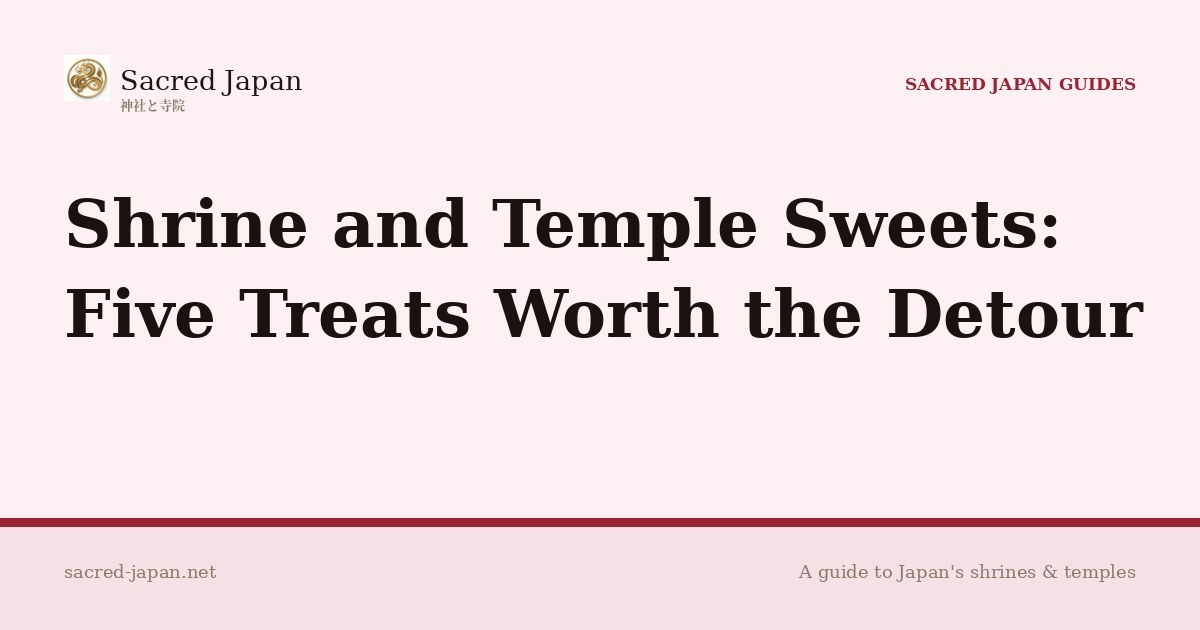
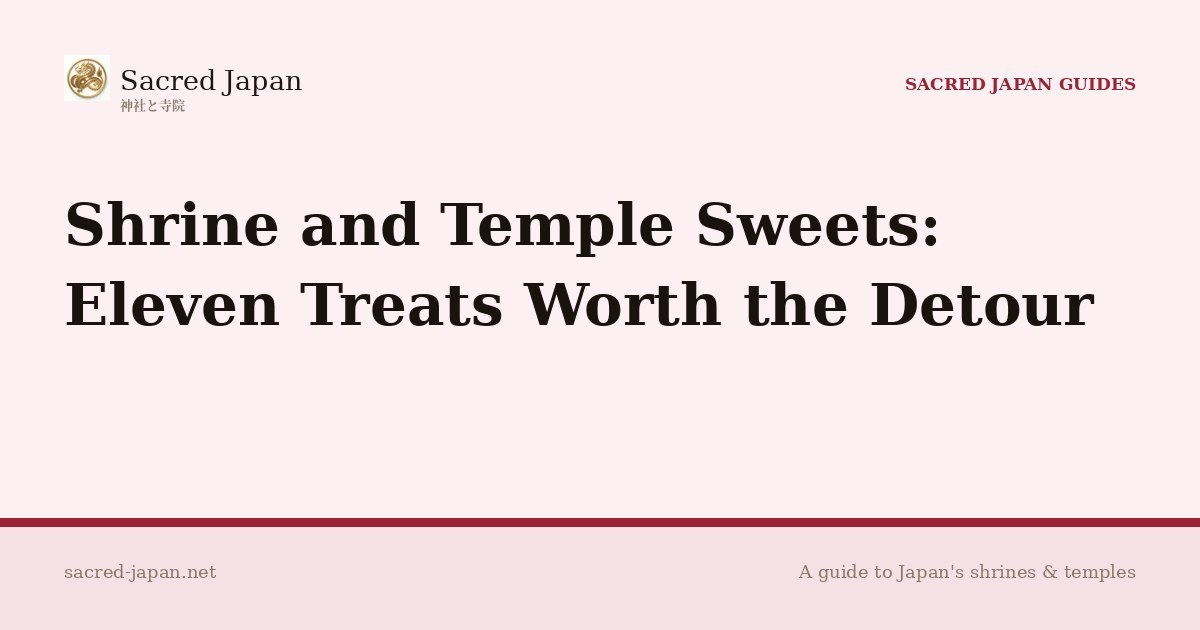
Expand sweets guide to 11 treats (mitarashi, kiyome mochi, Izumo zenzai, itokiri, tengu-yaki, Hato Sable) with credited photos
Claude-Session: https://claude.ai/code/session_01EpyvmJaAWoN52Wmz9c73wc

Changed region(s): [[0.0617, 0.4524, 0.9558, 0.5429], [0.0617, 0.3016, 0.8942, 0.4222]]

diff --git a/guides/shrine-temple-sweets/index.html b/guides/shrine-temple-sweets/index.html
@@ -5,9 +5,9 @@
 <meta name="viewport" content="width=device-width, initial-scale=1.0">
 
 <!-- ── PRIMARY SEO ── -->
-<title>Japanese Shrine &amp; Temple Sweets: 5 Treats Worth the Detour | Sacred Japan</title>
-<meta name="description" content="Five sweets sold at the gates of Japan's shrines and temples, from Dazaifu's umegae mochi to Miyajima's momiji manju, with the stories behind them and tips from a licensed guide.">
-<meta name="keywords" content="Japanese temple sweets, shrine sweets Japan, umegae mochi, Dazaifu Tenmangu, aburimochi, Imamiya Shrine, Akafuku, Ise, momiji manju, Miyajima, yatsuhashi, Kyoto, monzen sweets, wagashi">
+<title>Japanese Shrine &amp; Temple Sweets: 11 Treats Worth the Detour | Sacred Japan</title>
+<meta name="description" content="Eleven sweets sold at the gates of Japan's shrines and temples, from Dazaifu's umegae mochi to Kyoto's mitarashi dango, with the stories behind them and tips from a licensed guide.">
+<meta name="keywords" content="Japanese temple sweets, shrine sweets Japan, umegae mochi, Dazaifu Tenmangu, mitarashi dango, Shimogamo, kiyome mochi, Atsuta, Izumo zenzai, hato sable, tengu-yaki, aburimochi, Imamiya Shrine, Akafuku, Ise, momiji manju, Miyajima, yatsuhashi, Kyoto, monzen sweets, wagashi">
 <meta name="author" content="Sacred Japan">
 <link rel="canonical" href="https://sacred-japan.net/guides/shrine-temple-sweets/">
 <link rel="alternate" hreflang="en" href="https://sacred-japan.net/guides/shrine-temple-sweets/">
@@ -16,8 +16,8 @@
 <!-- ── OPEN GRAPH ── -->
 <meta property="og:type" content="article">
 <meta property="og:url" content="https://sacred-japan.net/guides/shrine-temple-sweets/">
-<meta property="og:title" content="Japanese Shrine &amp; Temple Sweets: 5 Treats Worth the Detour">
-<meta property="og:description" content="Five sweets sold at the gates of Japan's shrines and temples, from Dazaifu's umegae mochi to Miyajima's momiji manju, with the stories behind them and tips from a licensed guide.">
+<meta property="og:title" content="Japanese Shrine &amp; Temple Sweets: 11 Treats Worth the Detour">
+<meta property="og:description" content="Eleven sweets sold at the gates of Japan's shrines and temples, from Dazaifu's umegae mochi to Kyoto's mitarashi dango, with the stories behind them and tips from a licensed guide.">
 <meta property="og:image" content="https://sacred-japan.net/images/og/og-guides-shrine-temple-sweets.jpg">
 <meta property="og:image:width" content="1200">
 <meta property="og:image:height" content="630">
@@ -27,8 +27,8 @@
 <!-- ── TWITTER CARD ── -->
 <meta name="twitter:card" content="summary_large_image">
 <meta name="twitter:site" content="@sacredjapan">
-<meta name="twitter:title" content="Japanese Shrine &amp; Temple Sweets: 5 Treats Worth the Detour">
-<meta name="twitter:description" content="Five sweets sold at the gates of Japan's shrines and temples, from Dazaifu's umegae mochi to Miyajima's momiji manju, with the stories behind them and tips from a licensed guide.">
+<meta name="twitter:title" content="Japanese Shrine &amp; Temple Sweets: 11 Treats Worth the Detour">
+<meta name="twitter:description" content="Eleven sweets sold at the gates of Japan's shrines and temples, from Dazaifu's umegae mochi to Kyoto's mitarashi dango, with the stories behind them and tips from a licensed guide.">
 <meta name="twitter:image" content="https://sacred-japan.net/images/og/og-guides-shrine-temple-sweets.jpg">
 
 <!-- ── STRUCTURED DATA: Article ── -->
@@ -36,8 +36,8 @@
 {
   "@context": "https://schema.org",
   "@type": "Article",
-  "headline": "Japanese Shrine & Temple Sweets: 5 Treats Worth the Detour",
-  "description": "Five sweets sold at the gates of Japan's shrines and temples, from Dazaifu's umegae mochi to Miyajima's momiji manju, with the stories behind them and tips from a licensed guide.",
+  "headline": "Japanese Shrine & Temple Sweets: 11 Treats Worth the Detour",
+  "description": "Eleven sweets sold at the gates of Japan's shrines and temples, from Dazaifu's umegae mochi to Kyoto's mitarashi dango, with the stories behind them and tips from a licensed guide.",
   "url": "https://sacred-japan.net/guides/shrine-temple-sweets/",
   "mainEntityOfPage": "https://sacred-japan.net/guides/shrine-temple-sweets/",
   "image": "https://sacred-japan.net/images/og/og-guides-shrine-temple-sweets.jpg",
@@ -947,9 +947,9 @@ article ul li, article ol li { font-size: 19px; }
   <div class="hero-bg-kanji">甘味</div>
   <div class="hero-content">
     <div class="hero-label">SACRED JAPAN GUIDES ／ 門前菓子</div>
-    <h1>Shrine and Temple <em>Sweets</em>: Five Treats Worth the Detour</h1>
+    <h1>Shrine and Temple <em>Sweets</em>: Eleven Treats Worth the Detour</h1>
     <div class="hero-jp">神社・お寺の門前スイーツ</div>
-    <p class="hero-subtitle">Walk up to almost any famous shrine or temple in Japan and the last stretch of the approach smells of grilled rice cake and sweet bean paste. Here are five I would walk a long way for.</p>
+    <p class="hero-subtitle">Walk up to almost any famous shrine or temple in Japan and the last stretch of the approach smells of grilled rice cake and sweet bean paste. Here are eleven I would walk a long way for.</p>
     <div class="hero-author">
       WRITTEN BY <strong>SACRED JAPAN</strong> ／ LICENSED NATIONAL TOUR GUIDE (ENGLISH)
     </div>
@@ -985,6 +985,12 @@ article ul li, article ol li { font-size: 19px; }
       <li><a href="#akafuku">Akafuku at Ise</a></li>
       <li><a href="#momiji">Momiji Manju on Miyajima</a></li>
       <li><a href="#yatsuhashi">Yatsuhashi in Kyoto</a></li>
+      <li><a href="#mitarashi">Mitarashi Dango at Shimogamo Shrine</a></li>
+      <li><a href="#kiyome">Kiyome Mochi at Atsuta Shrine</a></li>
+      <li><a href="#zenzai">Izumo Zenzai at Izumo Taisha</a></li>
+      <li><a href="#itokiri">Itokiri Mochi at Taga Taisha</a></li>
+      <li><a href="#tengu">Tengu-yaki on Mount Takao</a></li>
+      <li><a href="#hato">Hato Sabl&eacute; in Kamakura</a></li>
       <li><a href="#tips">How to Enjoy Them</a></li>
       <li><a href="#faq">Frequently Asked Questions</a></li>
       <li><a href="#final">The Sweet Last Step</a></li>
@@ -995,7 +1001,7 @@ article ul li, article ol li { font-size: 19px; }
 
     <section id="opening">
       <p class="opening">As a licensed guide, I always tell visitors to arrive hungry. In Japan the approach to a famous shrine or temple is called the <em>monzen</em>, the area in front of the gate, and for centuries it has been lined with teahouses selling something sweet to pilgrims who had just walked a long way. Many of these shops are older than the buildings you came to see.</p>
-      <p>The reason is practical and a little spiritual. A pilgrim on foot needed sugar and rest, and a sweet taken after prayer was a way to share the blessing. Today the habit survives, and the sweets are easy to like: soft rice cake, sweet bean paste, a bowl of green tea. I have picked five that each belong to a particular place and have a story you can taste. Prices and opening days change, so I have left them out and suggest you check each shop or shrine before you go.</p>
+      <p>The reason is practical and a little spiritual. A pilgrim on foot needed sugar and rest, and a sweet taken after prayer was a way to share the blessing. Today the habit survives, and the sweets are easy to like: soft rice cake, sweet bean paste, a bowl of green tea. I have picked eleven that each belong to a particular place and have a story you can taste. Prices and opening days change, so I have left them out and suggest you check each shop or shrine before you go.</p>
     </section>
 
     <h2 id="umegae">Umegae Mochi at Dazaifu Tenmangu<span class="h2-jp">梅ヶ枝餅（太宰府天満宮）</span></h2>
@@ -1057,7 +1063,7 @@ article ul li, article ol li { font-size: 19px; }
     </div>
 
     <figure style="margin:32px auto;max-width:560px;">
-      <picture><source srcset="/images/ise-uji-bridge.webp" type="image/webp"><img src="/images/ise-uji-bridge.jpg" alt="The Uji Bridge over the Isuzu River at Ise Jingu" width="1050" height="787" loading="lazy" style="width:100%;height:auto;border-radius:6px;"></picture>
+      <picture><source srcset="/images/ise-uji-bridge.webp" type="image/webp"><img src="/images/ise-uji-bridge.jpg" alt="The Uji Bridge over the Isuzu River at Ise Jingu" width="1200" height="800" loading="lazy" style="width:100%;height:auto;border-radius:6px;"></picture>
       <figcaption style="font-size:13px;color:var(--enshu);margin-top:10px;text-align:center;line-height:1.6;">The Uji Bridge over the Isuzu River at Ise.<br>Photo: Yanajin33, <a href="https://creativecommons.org/licenses/by-sa/3.0/" target="_blank" rel="noopener noreferrer" style="color:var(--enshu);">CC BY-SA 3.0</a>, via Wikimedia Commons (resized)</figcaption>
     </figure>
 
@@ -1096,6 +1102,100 @@ article ul li, article ol li { font-size: 19px; }
     <figure style="margin:32px auto;max-width:480px;">
       <picture><source srcset="/images/sweets-yatsuhashi.webp" type="image/webp"><img src="/images/sweets-yatsuhashi.jpg" alt="Two triangular nama yatsuhashi, one pink and one with a brown cinnamon wrapper, on a blue and white plate" width="1200" height="900" loading="lazy" style="width:100%;height:auto;border-radius:6px;"></picture>
       <figcaption style="font-size:13px;color:var(--enshu);margin-top:10px;text-align:center;line-height:1.6;">Soft nama yatsuhashi, folded around bean paste.<br>Photo: Ocdp, <a href="https://creativecommons.org/publicdomain/zero/1.0/" target="_blank" rel="noopener noreferrer" style="color:var(--enshu);">CC0</a>, via Wikimedia Commons (resized)</figcaption>
+    </figure>
+
+
+    <h2 id="mitarashi">Mitarashi Dango at Shimogamo Shrine<span class="h2-jp">みたらし団子（下鴨神社）</span></h2>
+    <p>Back in Kyoto, one more sweet deserves its own stop. Across the road from Shimogamo Shrine, a World Heritage site beside the Kamo River, a tea house called Kamo Mitarashi Chaya is credited as the birthplace of <em>mitarashi dango</em>, the grilled rice dumplings in a glossy soy-sugar glaze. The shop has been open since 1922, and the sweet takes its name from the Mitarashi Pond inside the shrine.</p>
+    <p>The story I tell guests is that the round dumplings imitate the bubbles that rise in the pond's spring water. Here they come five to a stick, with the fifth set slightly apart. The reason is debated: one account says it mirrors a group of four bubbles and one separate bubble, another that the dumplings stand for the human body. Either way, eat them warm, with a cup of tea, after a walk through the shrine's old forest.</p>
+
+    <div style="display:flex;flex-wrap:wrap;gap:20px;justify-content:center;margin:32px 0;">
+      <figure style="margin:0;flex:1 1 300px;max-width:430px;">
+        <picture><source srcset="/images/sweets-mitarashi.webp" type="image/webp"><img src="/images/sweets-mitarashi.jpg" alt="Three skewers of grilled mitarashi dango glazed in a glossy sauce on a stoneware plate, with a wooden spoon" width="652" height="489" loading="lazy" style="width:100%;height:auto;border-radius:6px;"></picture>
+        <figcaption style="font-size:13px;color:var(--enshu);margin-top:10px;text-align:center;line-height:1.6;">Mitarashi dango with its glossy glaze.<br>Photo: Kykk wiki, <a href="https://creativecommons.org/publicdomain/zero/1.0/" target="_blank" rel="noopener noreferrer" style="color:var(--enshu);">CC0</a>, via Wikimedia Commons (resized)</figcaption>
+      </figure>
+      <figure style="margin:0;flex:1 1 300px;max-width:430px;">
+        <picture><source srcset="/images/sweets-shimogamo.webp" type="image/webp"><img src="/images/sweets-shimogamo.jpg" alt="The red two-storey tower gate of Shimogamo Shrine hung with white lanterns, with a ring of grass for the summer purification" width="1200" height="900" loading="lazy" style="width:100%;height:auto;border-radius:6px;"></picture>
+        <figcaption style="font-size:13px;color:var(--enshu);margin-top:10px;text-align:center;line-height:1.6;">The tower gate of Shimogamo Shrine, with the summer purification ring of grass.<br>Photo: Immanuelle, <a href="https://creativecommons.org/licenses/by/4.0/" target="_blank" rel="noopener noreferrer" style="color:var(--enshu);">CC BY 4.0</a>, via Wikimedia Commons (resized)</figcaption>
+      </figure>
+    </div>
+
+    <div class="key-callout">
+      <p>🍡 <strong>The guide's tip:</strong> The shop sells takeaway only in larger orders, so sit down and eat on the spot. Visit in early summer to see the grass ring at the gate, which I describe in <a href="/guides/seasonal-traditions/" target="_blank" rel="noopener" onclick="trackEvent('click','external','')" style="color:var(--beni);text-decoration:underline;">The Shrine and Temple Year</a>.</p>
+    </div>
+
+    <h2 id="kiyome">Kiyome Mochi at Atsuta Shrine<span class="h2-jp">きよめ餅（熱田神宮）</span></h2>
+    <p>Atsuta Shrine in Nagoya is one of Japan's most important shrines, home to the sacred sword among the Three Sacred Treasures, and its sweet matches the name. <em>Kiyome</em> means purification. <em>Kiyome mochi</em> is a soft, white rice cake with a smooth sweet filling, and its maker, Kiyome Mochi Sohonke, sits by the shrine's east gate. The cakes are stamped with the name on top, and they come in a long box that makes a good small gift.</p>
+    <p>I like it because it is such a clean, quiet sweet. After the sandy paths and the great camphor trees of Atsuta, a soft cake with a light sweetness is exactly what you want. Buy it fresh, and ask the shop for its keeping time before you carry it far.</p>
+
+    <div style="display:flex;flex-wrap:wrap;gap:20px;justify-content:center;margin:32px 0;">
+      <figure style="margin:0;flex:1 1 300px;max-width:430px;">
+        <picture><source srcset="/images/sweets-kiyome-box.webp" type="image/webp"><img src="/images/sweets-kiyome-box.jpg" alt="A box of five soft white kiyome mochi rice cakes stamped with the name, beside an orange gift box" width="1200" height="900" loading="lazy" style="width:100%;height:auto;border-radius:6px;"></picture>
+        <figcaption style="font-size:13px;color:var(--enshu);margin-top:10px;text-align:center;line-height:1.6;">Kiyome mochi in its box.<br>Photo: 7'o'7, <a href="https://creativecommons.org/licenses/by-sa/3.0/" target="_blank" rel="noopener noreferrer" style="color:var(--enshu);">CC BY-SA 3.0</a>, via Wikimedia Commons (resized)</figcaption>
+      </figure>
+      <figure style="margin:0;flex:1 1 300px;max-width:430px;">
+        <picture><source srcset="/images/sweets-atsuta-shrine.webp" type="image/webp"><img src="/images/sweets-atsuta-shrine.jpg" alt="A worship hall at Atsuta Shrine with a rope across the entrance, seen across a wide gravel courtyard" width="1200" height="900" loading="lazy" style="width:100%;height:auto;border-radius:6px;"></picture>
+        <figcaption style="font-size:13px;color:var(--enshu);margin-top:10px;text-align:center;line-height:1.6;">A hall at Atsuta Shrine in Nagoya.<br>Photo: Hyppolyte de Saint-Rambert, <a href="https://creativecommons.org/licenses/by/4.0/" target="_blank" rel="noopener noreferrer" style="color:var(--enshu);">CC BY 4.0</a>, via Wikimedia Commons (resized)</figcaption>
+      </figure>
+    </div>
+
+    <p>My full guide to the shrine, including the sword legend, is here: <a href="/guides/atsuta-shrine/" target="_blank" rel="noopener" onclick="trackEvent('click','external','')" style="color:var(--beni);text-decoration:underline;">Atsuta Shrine</a>.</p>
+
+    <h2 id="zenzai">Izumo Zenzai at Izumo Taisha<span class="h2-jp">出雲ぜんざい（出雲大社）</span></h2>
+    <p>Izumo Taisha in Shimane is the shrine of matchmaking and of the gods who gather there each year, and the town claims something unusual: that the sweet bean soup called <em>zenzai</em> began here. It is said to take its name from <em>jinzai</em> mochi, served during the Kamiari rite at the shrine, and the word later changed to <em>zenzai</em> through the local Izumo dialect word <em>zunzai</em>. Treat it as a local tradition rather than settled history.</p>
+    <p>Izumo zenzai is lighter than the thick, syrupy kind you may know. It is a sweet red-bean soup with a lot of broth and a couple of soft rice cakes or little dumplings, with a small dish of pickles on the side. It is served hot in winter and chilled in summer, and cafes along the street leading to the shrine all serve their own version.</p>
+
+    <figure style="margin:32px auto;max-width:800px;">
+      <picture><source srcset="/images/sweets-izumo-street.webp" type="image/webp"><img src="/images/sweets-izumo-street.jpg" alt="A wide panorama of shops on the street in front of Izumo Taisha on a rainy day, including a shop with a sign reading zenzai" width="1600" height="325" loading="lazy" style="width:100%;height:auto;border-radius:6px;"></picture>
+      <figcaption style="font-size:13px;color:var(--enshu);margin-top:10px;text-align:center;line-height:1.6;">The shops on the street in front of Izumo Taisha.<br>Photo: z tanuki, <a href="https://creativecommons.org/licenses/by/3.0/" target="_blank" rel="noopener noreferrer" style="color:var(--enshu);">CC BY 3.0</a>, via Wikimedia Commons (resized)</figcaption>
+    </figure>
+
+    <figure style="margin:32px auto;max-width:480px;">
+      <picture><source srcset="/images/sweets-izumo-zenzai.webp" type="image/webp"><img src="/images/sweets-izumo-zenzai.jpg" alt="A bowl of sweet red-bean soup with a rice cake on a red lacquer tray beside a small dish of yellow pickles and a wooden spoon" width="1200" height="900" loading="lazy" style="width:100%;height:auto;border-radius:6px;"></picture>
+      <figcaption style="font-size:13px;color:var(--enshu);margin-top:10px;text-align:center;line-height:1.6;">Izumo zenzai, served with pickles.<br>Photo: Cassiopeia sweet, public domain, via Wikimedia Commons (resized)</figcaption>
+    </figure>
+
+    <div class="key-callout">
+      <p>🍲 <strong>The guide's tip:</strong> Izumo zenzai is a winter comfort food, so it pairs naturally with a cold-weather visit. For the shrine itself, read <a href="/guides/izumo-taisha/" target="_blank" rel="noopener" onclick="trackEvent('click','external','')" style="color:var(--beni);text-decoration:underline;">Izumo Taisha</a>.</p>
+    </div>
+
+    <h2 id="itokiri">Itokiri Mochi at Taga Taisha<span class="h2-jp">糸切餅（多賀大社）</span></h2>
+    <p>Taga Taisha in Shiga is known as a shrine of long life. From the Heian period it was revered for longevity, and Toyotomi Hideyoshi is recorded praying there for his mother's long life in 1588. The sweet sold near the shrine is <em>itokiri mochi</em>, small cut pieces of soft rice cake wrapped around sweet bean paste and striped in pale blue and pink, which makes it one of the prettiest sweets in this guide.</p>
+    <p>One account says it was first made to celebrate Japan's victory over the Mongols, but that claim is not well sourced, so I would take it as a story rather than a fact. The name means thread-cut rice cake. Buy a box from one of the shops near the shrine and share it, since sharing something long-life with family fits the place.</p>
+
+    <div style="display:flex;flex-wrap:wrap;gap:20px;justify-content:center;margin:32px 0;">
+      <figure style="margin:0;flex:1 1 300px;max-width:430px;">
+        <picture><source srcset="/images/sweets-itokiri.webp" type="image/webp"><img src="/images/sweets-itokiri.jpg" alt="A wooden box of striped itokiri mochi in pale blue and pink on white rice cake, with a green wrapper behind it" width="1200" height="900" loading="lazy" style="width:100%;height:auto;border-radius:6px;"></picture>
+        <figcaption style="font-size:13px;color:var(--enshu);margin-top:10px;text-align:center;line-height:1.6;">Striped itokiri mochi in a wooden box.<br>Photo: Kyoww, <a href="https://creativecommons.org/licenses/by-sa/4.0/" target="_blank" rel="noopener noreferrer" style="color:var(--enshu);">CC BY-SA 4.0</a>, via Wikimedia Commons (resized)</figcaption>
+      </figure>
+      <figure style="margin:0;flex:1 1 300px;max-width:430px;">
+        <picture><source srcset="/images/sweets-taga-taisha.webp" type="image/webp"><img src="/images/sweets-taga-taisha.jpg" alt="The main worship hall of Taga Taisha, with tall cedar trees behind it under a blue sky" width="1200" height="798" loading="lazy" style="width:100%;height:auto;border-radius:6px;"></picture>
+        <figcaption style="font-size:13px;color:var(--enshu);margin-top:10px;text-align:center;line-height:1.6;">The main hall of Taga Taisha, set among cedars.<br>Photo: Saigen Jiro, <a href="https://creativecommons.org/publicdomain/zero/1.0/" target="_blank" rel="noopener noreferrer" style="color:var(--enshu);">CC0</a>, via Wikimedia Commons (resized)</figcaption>
+      </figure>
+    </div>
+
+    <h2 id="tengu">Tengu-yaki on Mount Takao<span class="h2-jp">天狗焼（高尾山）</span></h2>
+    <p>Mount Takao is the easy escape from Tokyo, and the mountain belongs to the <em>tengu</em>, the long-nosed spirits of folklore. Yakuo-in, the temple on its slope, is a place where you will see tengu statues and masks everywhere. The local sweet is <em>tengu-yaki</em>, a pastry baked in a mould in the shape of a tengu's face and filled with sweet red bean paste.</p>
+    <p>One listing says it uses Hokkaido black beans in a chewy dough with a toasted surface, and that it is sold at a souvenir shop near the cable car station. It is best eaten fresh, and the lines can be long on weekends and in peak seasons.</p>
+
+    <div style="display:flex;flex-wrap:wrap;gap:20px;justify-content:center;margin:32px 0;">
+      <figure style="margin:0;flex:1 1 300px;max-width:430px;">
+        <picture><source srcset="/images/sweets-tenguyaki.webp" type="image/webp"><img src="/images/sweets-tenguyaki.jpg" alt="A close-up of a tengu-yaki pastry in a paper wrapper, with its angry stylised face and blue sky behind" width="1132" height="849" loading="lazy" style="width:100%;height:auto;border-radius:6px;"></picture>
+        <figcaption style="font-size:13px;color:var(--enshu);margin-top:10px;text-align:center;line-height:1.6;">A tengu-yaki pastry, held up against the sky.<br>Photo: KQuhen, <a href="https://creativecommons.org/licenses/by-sa/4.0/" target="_blank" rel="noopener noreferrer" style="color:var(--enshu);">CC BY-SA 4.0</a>, via Wikimedia Commons (resized)</figcaption>
+      </figure>
+      <figure style="margin:0;flex:1 1 300px;max-width:430px;">
+        <picture><source srcset="/images/sweets-takao-yakuoin.webp" type="image/webp"><img src="/images/sweets-takao-yakuoin.jpg" alt="Visitors climbing the steps of the main hall of Yakuo-in on Mount Takao, with a thick rope and red banners" width="1200" height="900" loading="lazy" style="width:100%;height:auto;border-radius:6px;"></picture>
+        <figcaption style="font-size:13px;color:var(--enshu);margin-top:10px;text-align:center;line-height:1.6;">The main hall of Yakuo-in on Mount Takao.<br>Photo: くろふね, <a href="https://creativecommons.org/licenses/by/4.0/" target="_blank" rel="noopener noreferrer" style="color:var(--enshu);">CC BY 4.0</a>, via Wikimedia Commons (resized)</figcaption>
+      </figure>
+    </div>
+
+    <h2 id="hato">Hato Sabl&eacute; in Kamakura<span class="h2-jp">鳩サブレー（鎌倉）</span></h2>
+    <p>The last sweet is the one that makes people smile. In Kamakura, the big, crisp, buttery biscuit shaped like a dove is called <em>Hato Sabl&eacute;</em>, and it is sold by Toshimaya near Tsurugaoka Hachimangu. The dove is no accident: it is the messenger of the shrine's deity Hachiman and the shrine's symbol, and the confectioner is said to have shaped the biscuit to express gratitude to the shrine.</p>
+    <p>One account dates the idea to 1897, when a local confectioner was given a biscuit by a foreign visitor and began working on his own version. It is sold in a yellow bag with a dove on it. Unlike most sweets here it keeps well, so it is the one to bring home. My guide to the shrine is here: <a href="/guides/tsurugaoka-hachimangu/" target="_blank" rel="noopener" onclick="trackEvent('click','external','')" style="color:var(--beni);text-decoration:underline;">Tsurugaoka Hachimangu</a>.</p>
+
+    <figure style="margin:32px auto;max-width:560px;">
+      <picture><source srcset="/images/sweets-hato-sable.webp" type="image/webp"><img src="/images/sweets-hato-sable.jpg" alt="Two dove-shaped sable biscuits on a dark cloth" width="1200" height="800" loading="lazy" style="width:100%;height:auto;border-radius:6px;"></picture>
+      <figcaption style="font-size:13px;color:var(--enshu);margin-top:10px;text-align:center;line-height:1.6;">Dove-shaped Hato Sabl&eacute;.<br>Photo: KQuhen, <a href="https://creativecommons.org/licenses/by-sa/4.0/" target="_blank" rel="noopener noreferrer" style="color:var(--enshu);">CC BY-SA 4.0</a>, via Wikimedia Commons (resized)</figcaption>
     </figure>
 
     <h2 id="tips">How to Enjoy Them<span class="h2-jp">楽しむコツ</span></h2>
@@ -1148,7 +1248,7 @@ article ul li, article ol li { font-size: 19px; }
     </div>
 
     <h2 id="final">The Sweet Last Step<span class="h2-jp">むすびに</span></h2>
-    <p>I think of these sweets as the last step of a visit. You have bowed, made your wish, rung the bell, and then you sit down on a wooden bench and eat something warm. It is a small, unhurried part of the day, and it is the part my guests tell me they remember best. Pick one of the five and build a morning around it.</p>
+    <p>I think of these sweets as the last step of a visit. You have bowed, made your wish, rung the bell, and then you sit down on a wooden bench and eat something warm. It is a small, unhurried part of the day, and it is the part my guests tell me they remember best. Pick one of them and build a morning around it.</p>
 
     <div class="closing-block">
       <span class="torii">⛩</span>
@@ -1189,7 +1289,7 @@ article ul li, article ol li { font-size: 19px; }
 
 <!-- ── SOURCES NOTE ── -->
 <div class="sources-note">
-  Sources verified at time of writing: <a href="https://www.discoverkyoto.com/places-go/imamiya-jinja/" target="_blank" rel="noopener" onclick="trackEvent('click','external','src_sweets_imamiya')" style="color:var(--beni);text-decoration:underline;">Discover Kyoto (Imamiya Shrine)</a>, <a href="https://www.akafuku.co.jp/en/" target="_blank" rel="noopener" onclick="trackEvent('click','external','src_sweets_akafuku')" style="color:var(--beni);text-decoration:underline;">Akafuku official site</a>, <a href="https://visit-miyajima-japan.com/en/culture-and-heritage/culinary-heritage.html" target="_blank" rel="noopener" onclick="trackEvent('click','external','src_sweets_miyajima')" style="color:var(--beni);text-decoration:underline;">Visit Miyajima</a>, <a href="https://en.wikipedia.org/wiki/Momiji_manj%C5%AB" target="_blank" rel="noopener" onclick="trackEvent('click','external','src_sweets_momiji')" style="color:var(--beni);text-decoration:underline;">Wikipedia (momiji manju)</a>, <a href="https://web-japan.org/niponica/niponica12/en/feature/feature05.html" target="_blank" rel="noopener" onclick="trackEvent('click','external','src_sweets_yatsuhashi')" style="color:var(--beni);text-decoration:underline;">Niponica (yatsuhashi)</a> and <a href="https://www.dazaifutenmangu.or.jp/" target="_blank" rel="noopener" onclick="trackEvent('click','external','src_sweets_dazaifu')" style="color:var(--beni);text-decoration:underline;">Dazaifu Tenmangu official site</a>. Prices, hours and closing days change, so please check each official page before you go.
+  Sources verified at time of writing: <a href="https://www.discoverkyoto.com/places-go/imamiya-jinja/" target="_blank" rel="noopener" onclick="trackEvent('click','external','src_sweets_imamiya')" style="color:var(--beni);text-decoration:underline;">Discover Kyoto (Imamiya Shrine)</a>, <a href="https://www.akafuku.co.jp/en/" target="_blank" rel="noopener" onclick="trackEvent('click','external','src_sweets_akafuku')" style="color:var(--beni);text-decoration:underline;">Akafuku official site</a>, <a href="https://visit-miyajima-japan.com/en/culture-and-heritage/culinary-heritage.html" target="_blank" rel="noopener" onclick="trackEvent('click','external','src_sweets_miyajima')" style="color:var(--beni);text-decoration:underline;">Visit Miyajima</a>, <a href="https://en.wikipedia.org/wiki/Momiji_manj%C5%AB" target="_blank" rel="noopener" onclick="trackEvent('click','external','src_sweets_momiji')" style="color:var(--beni);text-decoration:underline;">Wikipedia (momiji manju)</a>, <a href="https://web-japan.org/niponica/niponica12/en/feature/feature05.html" target="_blank" rel="noopener" onclick="trackEvent('click','external','src_sweets_yatsuhashi')" style="color:var(--beni);text-decoration:underline;">Niponica (yatsuhashi)</a>, <a href="https://kansai-odyssey.com/birth-place-mitarashi-dango-kamo-mitarashi-chaya/" target="_blank" rel="noopener" style="color:inherit;">Kansai Odyssey (mitarashi dango)</a>, <a href="https://www.nagoya-info.jp/en/souvenir/detail/2/" target="_blank" rel="noopener" style="color:inherit;">Visit Nagoya (Kiyome Mochi Sohonke)</a>, <a href="https://www.gltjp.com/en/article/item/21244/" target="_blank" rel="noopener" style="color:inherit;">GLTJP (Izumo zenzai)</a>, <a href="https://en.wikipedia.org/wiki/Taga-taisha" target="_blank" rel="noopener" style="color:inherit;">Wikipedia (Taga-taisha)</a>, <a href="https://cdn.gltjp.com/en/directory/item/15710/" target="_blank" rel="noopener" style="color:inherit;">GLTJP (tengu-yaki)</a>, <a href="https://en.japantravel.com/kanagawa/dove-palace-toshima-ya-confectionary-shop-in-kamakura/983" target="_blank" rel="noopener" style="color:inherit;">Japan Travel (Hato Sabl&eacute;)</a> and <a href="https://www.dazaifutenmangu.or.jp/" target="_blank" rel="noopener" onclick="trackEvent('click','external','src_sweets_dazaifu')" style="color:var(--beni);text-decoration:underline;">Dazaifu Tenmangu official site</a>. Prices, hours and closing days change, so please check each official page before you go.
 </div>
 
 <!-- ── FOOTER ── -->

diff --git a/guides/index.html b/guides/index.html
@@ -111,7 +111,7 @@
       {"@type":"ListItem","position":58,"url":"https://sacred-japan.net/guides/tenryuji/","name":"Tenryu-ji: The Temple Built to Calm a Dead Emperor"},
       {"@type":"ListItem","position":59,"url":"https://sacred-japan.net/festivals/autumn-winter-festivals/","name":"Japan's Autumn & Winter Festivals"},
       {"@type":"ListItem","position":60,"url":"https://sacred-japan.net/guides/seasonal-traditions/","name":"The Shrine and Temple Year: Seasonal Rituals and Foods in Japan"},
-      {"@type":"ListItem","position":61,"url":"https://sacred-japan.net/guides/shrine-temple-sweets/","name":"Japanese Shrine & Temple Sweets: 5 Treats Worth the Detour"}
+      {"@type":"ListItem","position":61,"url":"https://sacred-japan.net/guides/shrine-temple-sweets/","name":"Japanese Shrine & Temple Sweets: 11 Treats Worth the Detour"}
     ]
   }
 }
@@ -1164,8 +1164,8 @@ main { max-width: 1100px; }
 
     <a class="hub-card" href="/guides/shrine-temple-sweets/" onclick="trackEvent('click','internal','guides_hub_to_shrine_temple_sweets')" style="border-top:3px solid #9b2335;">
       <div class="hub-card-label" style="color:#9b2335;">FOOD ／ 門前スイーツ</div>
-      <div class="hub-card-title">🍡 Shrine and Temple Sweets: Five Treats Worth the Detour →</div>
-      <div class="hub-card-desc">Umegae mochi, aburimochi, Akafuku, momiji manju and yatsuhashi, and the stories behind them.</div>
+      <div class="hub-card-title">🍡 Shrine and Temple Sweets: Eleven Treats Worth the Detour →</div>
+      <div class="hub-card-desc">Eleven sweets sold at the gates of shrines and temples, from umegae mochi and Akafuku to mitarashi dango and Hato Sablé.</div>
     </a>
 
   </div>

diff --git a/guides/itsukushima-shrine/index.html b/guides/itsukushima-shrine/index.html
@@ -1113,7 +1113,7 @@ article ul li, article ol li { font-size: 19px; }
         <a class="related-card" href="/guides/shrine-temple-sweets/" onclick="trackEvent('click','internal','related_itsukushima_to_sweets')">
           <div class="related-card-label">SACRED JAPAN ／ FOOD</div>
           <div class="related-card-title">🍡 Shrine and Temple Sweets →</div>
-          <div class="related-card-desc">Momiji manju from Miyajima, plus four other treats sold at the gates of shrines and temples.</div>
+          <div class="related-card-desc">Momiji manju from Miyajima, plus ten other treats sold at the gates of shrines and temples.</div>
         </a>
 
         <a class="related-card" href="/guides/ise-grand-shrine/" onclick="trackEvent('click','internal','related_itsukushima_to_ise')">

diff --git a/guides/dazaifu-tenmangu/index.html b/guides/dazaifu-tenmangu/index.html
@@ -1095,7 +1095,7 @@ article ul li, article ol li { font-size: 19px; }
         <a class="related-card" href="/guides/shrine-temple-sweets/" onclick="trackEvent('click','internal','related_dazaifu_to_sweets')">
           <div class="related-card-label">SACRED JAPAN ／ FOOD</div>
           <div class="related-card-title">🍡 Shrine and Temple Sweets →</div>
-          <div class="related-card-desc">Umegae mochi from Dazaifu, plus four other treats sold at the gates of shrines and temples.</div>
+          <div class="related-card-desc">Umegae mochi from Dazaifu, plus ten other treats sold at the gates of shrines and temples.</div>
         </a>
 
         <a class="related-card" href="/guides/izumo-taisha/" onclick="trackEvent('click','internal','related_dazaifu_to_izumo')">

diff --git a/guides/ise-grand-shrine/index.html b/guides/ise-grand-shrine/index.html
@@ -1146,7 +1146,7 @@ article ul li, article ol li { font-size: 19px; }
         <a class="related-card" href="/guides/shrine-temple-sweets/" onclick="trackEvent('click','internal','related_ise_to_sweets')">
           <div class="related-card-label">SACRED JAPAN ／ FOOD</div>
           <div class="related-card-title">🍡 Shrine and Temple Sweets →</div>
-          <div class="related-card-desc">Akafuku and Okage Yokocho, plus four other treats sold at the gates of shrines and temples.</div>
+          <div class="related-card-desc">Akafuku and Okage Yokocho, plus ten other treats sold at the gates of shrines and temples.</div>
         </a>
 
         <a class="related-card" href="/guides/atsuta-shrine/" onclick="trackEvent('click','internal','related_ise_to_atsuta')">

diff --git a/guides/seasonal-traditions/index.html b/guides/seasonal-traditions/index.html
@@ -1304,7 +1304,7 @@ article ul li, article ol li { font-size: 19px; }
         <a class="related-card" href="/guides/shrine-temple-sweets/" onclick="trackEvent('click','internal','related_seasonal_to_sweets')">
           <div class="related-card-label">SACRED JAPAN ／ FOOD</div>
           <div class="related-card-title">🍡 Shrine and Temple Sweets →</div>
-          <div class="related-card-desc">Five treats sold at the gate, from umegae mochi to momiji manju.</div>
+          <div class="related-card-desc">Eleven treats sold at the gate, from umegae mochi to mitarashi dango.</div>
         </a>
 
         <a class="related-card" href="/regional-food/" onclick="trackEvent('click','internal','related_seasonal_to_regional_food')">
